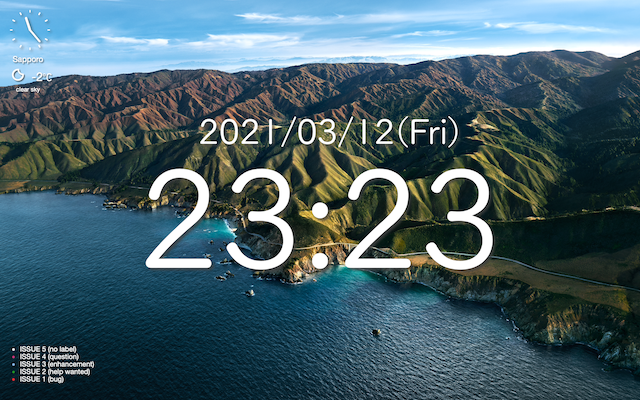
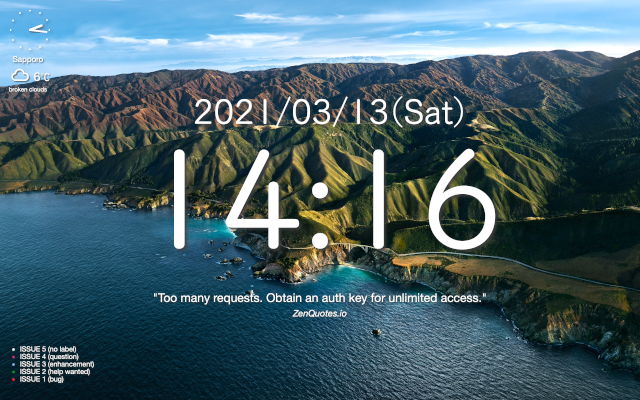
adjust position of each widget and simplify analog clock

diff --git a/analog_clock.jsx b/analog_clock.jsx
@@ -1,4 +1,10 @@
-import {css} from "uebersicht";
+// parameter
+const color = "white";
+const size = 80; // size of clock
+const hwid = 4;  // width of hour hand
+const mwid = 3;  // width of minute hand
+const hlen = 25; // length of hour hand
+const mlen = 33; // length of minute hand
 
 // styles
 export const className = `
@@ -26,22 +32,9 @@ export const command = "true";
 
 // render
 export const render = ({output}) => {
-    // parameter
-    var color = "white";
-    var size = 80;
-    var hwid = 4;  // width of hour hand
-    var mwid = 3;  // width of minute hand
-    var iwid = 2;  // width of index
-    var hlen = 25; // length of hour hand
-    var mlen = 30; // length of minute hand
-    var ilen = 3;  // length of index
-    // calc length
-    var cent = size / 2;
-    var hoff = cent - hlen;
-    var moff = cent - mlen;
-    var ioff = iwid / 2;
-    var iset = ioff + ilen;
-    // calc degree
+    var cent = Math.floor(size / 2);
+    var irad = 1;  // radius of index
+    // get time
     var now = new Date();
     var hour = now.getHours();
     if (hour >= 12) {
@@ -49,32 +42,30 @@ export const render = ({output}) => {
     }
     var minute = now.getMinutes();
     var second = now.getSeconds();
-    var hdeg = ((hour * 3600) + (minute * 60) + second) / 120;
-    var mdeg = ((minute * 60) + second) / 10;
-    var hrot = "rotate(" + hdeg + "," + cent + "," + cent + ")";
-    var mrot = "rotate(" + mdeg + "," + cent + "," + cent + ")";
-    var irot = [];
+    // hour hand
+    var hrad = ((hour * 3600) + (minute * 60) + second) * Math.PI / 21600;
+    var hx = Math.round((hlen * Math.sin(hrad)) + cent);
+    var hy = Math.round(cent - (hlen * Math.cos(hrad)));
+    var hhand = <line x1={cent} y1={cent} x2={hx} y2={hy} stroke={color} strokeWidth={hwid} strokeLinecap="round" shapeRendering="crispEdges"/>;
+    // minute hand
+    var mrad = ((minute * 60) + second) * Math.PI / 1800;
+    var mx = Math.round((mlen * Math.sin(mrad)) + cent);
+    var my = Math.round(cent - (mlen * Math.cos(mrad)));
+    var mhand = <line x1={cent} y1={cent} x2={mx} y2={my} stroke={color} strokeWidth={mwid} strokeLinecap="round" shapeRendering="crispEdges"/>;
+    // indexes
+    var indexes = [];
     for (let i = 0; i < 12; i++) {
-        var tdeg = i * 30;
-        irot.push("rotate(" + tdeg + "," + cent + "," + cent + ")");
+        var trad = i * Math.PI / 6;
+        var cx = Math.round(((cent - irad) * Math.sin(trad)) + cent);
+        var cy = Math.round(cent - ((cent - irad) * Math.cos(trad)));
+        indexes.push(<circle cx={cx} cy={cy} r={irad} fill={color} stroke={color} shapeRendering="crispEdges"/>);
     }
     return (
         <div>
-        <svg xmlns="http://www.w3.org/2000/svg" width={size} height={size}>
-        <line x1={cent} y1={cent} x2={cent} y2={hoff} stroke={color} strokeWidth={hwid} strokeLinecap="round" shapeRendering="crispEdges" transform={hrot}/>
-        <line x1={cent} y1={cent} x2={cent} y2={moff} stroke={color} strokeWidth={mwid} strokeLinecap="round" shapeRendering="crispEdges" transform={mrot}/>
-        <line x1={cent} y1={ioff} x2={cent} y2={iset} stroke={color} strokeWidth={iwid} strokeLinecap="square" shapeRendering="crispEdges" transform={irot[0]}/>
-        <line x1={cent} y1={ioff} x2={cent} y2={iset} stroke={color} strokeWidth={iwid} strokeLinecap="square" shapeRendering="crispEdges" transform={irot[1]}/>
-        <line x1={cent} y1={ioff} x2={cent} y2={iset} stroke={color} strokeWidth={iwid} strokeLinecap="square" shapeRendering="crispEdges" transform={irot[2]}/>
-        <line x1={cent} y1={ioff} x2={cent} y2={iset} stroke={color} strokeWidth={iwid} strokeLinecap="square" shapeRendering="crispEdges" transform={irot[3]}/>
-        <line x1={cent} y1={ioff} x2={cent} y2={iset} stroke={color} strokeWidth={iwid} strokeLinecap="square" shapeRendering="crispEdges" transform={irot[4]}/>
-        <line x1={cent} y1={ioff} x2={cent} y2={iset} stroke={color} strokeWidth={iwid} strokeLinecap="square" shapeRendering="crispEdges" transform={irot[5]}/>
-        <line x1={cent} y1={ioff} x2={cent} y2={iset} stroke={color} strokeWidth={iwid} strokeLinecap="square" shapeRendering="crispEdges" transform={irot[6]}/>
-        <line x1={cent} y1={ioff} x2={cent} y2={iset} stroke={color} strokeWidth={iwid} strokeLinecap="square" shapeRendering="crispEdges" transform={irot[7]}/>
-        <line x1={cent} y1={ioff} x2={cent} y2={iset} stroke={color} strokeWidth={iwid} strokeLinecap="square" shapeRendering="crispEdges" transform={irot[8]}/>
-        <line x1={cent} y1={ioff} x2={cent} y2={iset} stroke={color} strokeWidth={iwid} strokeLinecap="square" shapeRendering="crispEdges" transform={irot[9]}/>
-        <line x1={cent} y1={ioff} x2={cent} y2={iset} stroke={color} strokeWidth={iwid} strokeLinecap="square" shapeRendering="crispEdges" transform={irot[10]}/>
-        <line x1={cent} y1={ioff} x2={cent} y2={iset} stroke={color} strokeWidth={iwid} strokeLinecap="square" shapeRendering="crispEdges" transform={irot[11]}/>
+        <svg xmlns="http://www.w3.org/2000/svg" width={size} height={size} viewbox="0 0 {size} {size}">
+        {mhand}
+        {hhand}
+        {indexes}
         </svg>
         </div>
     );

diff --git a/clock.jsx b/clock.jsx
@@ -12,7 +12,7 @@ const time = css({
 export const className = {
     // position
     top:    "auto",
-    bottom: "50%",
+    bottom: "55%",
     left:   "20%",
     width:  "60%",
     transform:  "translateY(50%)",

diff --git a/quote.jsx b/quote.jsx
@@ -11,7 +11,7 @@ const author = css({
 export const className = {
     position: "fixed",
     top:    "auto",
-    bottom: "15%",
+    bottom: "20%",
     left:   "20%",
     right:  "auto",
     width:  "60%",
